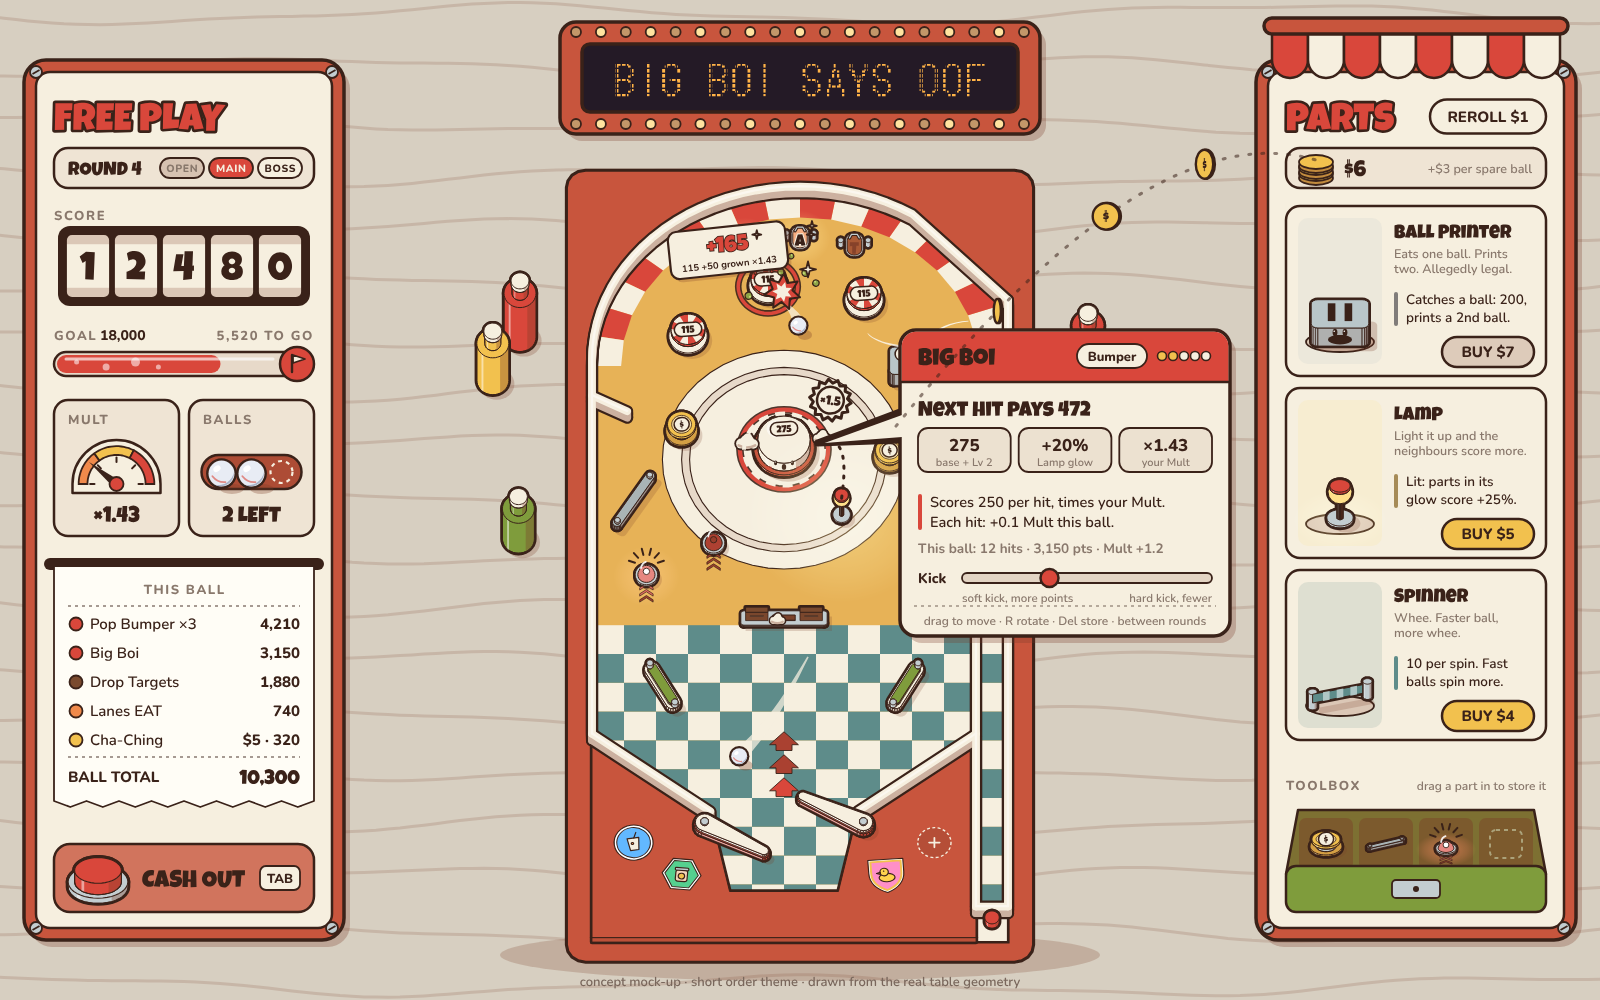
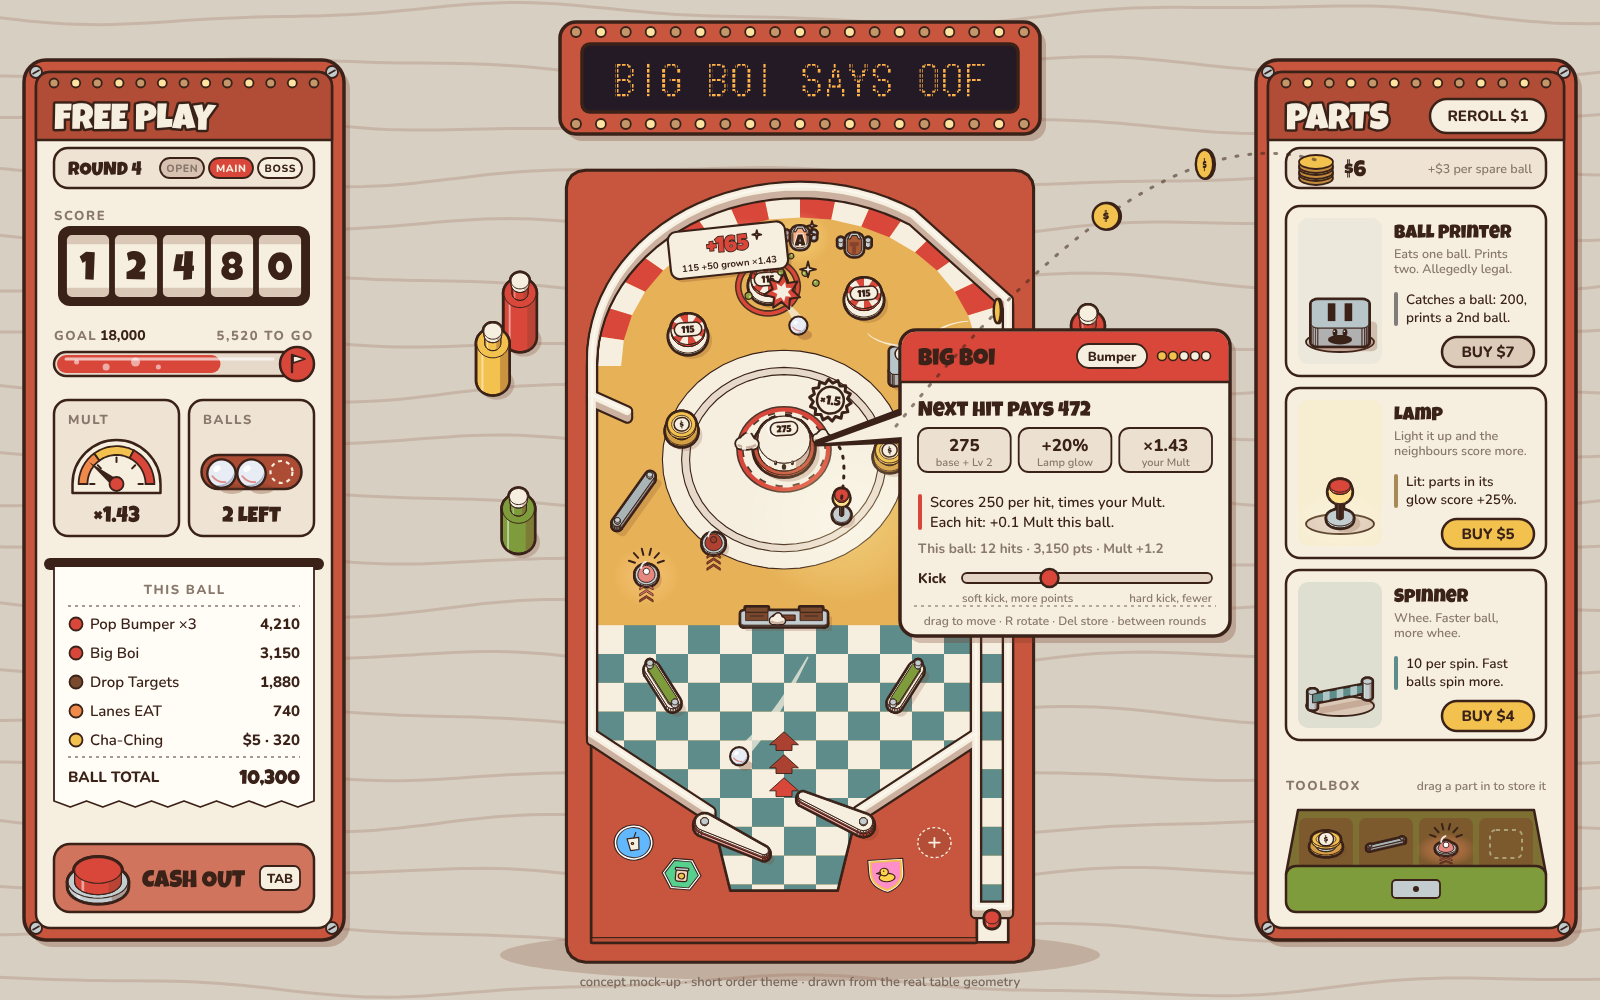
Marquee panel headers and the art implementation plan
Both HUD panels open with an arcade marquee header (chasing bulbs, title)
inside the frame, replacing the shop canopy that stuck out and wasted
space. Adds docs/art-implementation-plan.md (phases A-H with done-when
checks) and records the art direction, player-chosen themes and fonts in
the game plan.

Claude-Session: https://claude.ai/code/session_01Si7qTfgq9ucPtbt7aWJn71

Changed region(s): [[0.7812, 0.0, 1.0, 0.155], [0.0, 0.062, 0.2188, 0.155]]

diff --git a/tools/concept/ui.ts b/tools/concept/ui.ts
@@ -148,14 +148,20 @@ export function arcadeButton(t: Theme, x: number, y: number, w: number, label: s
     `<rect x="${f(x + w - kw - 14)}" y="${f(cy - 12)}" width="${kw}" height="24" rx="6" fill="${t.paper}" stroke="${t.ink}" stroke-width="${LW.detail}"/>` + text(t, x + w - 14 - kw / 2, cy, key, 13, { w: 800, anchor: 'middle', mid: true });
 }
 
-/** A shop canopy: scalloped stripes hanging from a rail. */
-export function awning(t: Theme, x: number, y: number, w: number, n = 8) {
-  const sw = w / n, o: string[] = [];
+/**
+ * A panel header in the arcade style of the DMD marquee: a darker band across the top of the housing
+ * with a row of chasing bulbs and the title, so nothing sticks out of the frame.
+ */
+export function marqueeHeader(t: Theme, x: number, y: number, w: number, title: string) {
+  const x0 = x + 12, x1 = x + w - 12, y0 = y + 12, y1 = y + 80, r = 14, band = mix(t.rim, t.shadeTint, 0.3);
+  const o: string[] = [`<path d="M${f(x0)} ${f(y1)}V${f(y0 + r)}A${r} ${r} 0 0 1 ${f(x0 + r)} ${f(y0)}H${f(x1 - r)}A${r} ${r} 0 0 1 ${f(x1)} ${f(y0 + r)}V${f(y1)}Z" fill="${band}" stroke="${t.ink}" stroke-width="${LW.widget}" stroke-linejoin="round"/>`];
+  const n = 13;
   for (let i = 0; i < n; i++) {
-    const X = x + i * sw, c = i % 2 ? t.paper : t.accent;
-    o.push(`<path d="M${f(X)} ${f(y)}H${f(X + sw)}V${f(y + 34)}A${f(sw / 2)} ${f(sw / 2)} 0 0 1 ${f(X)} ${f(y + 34)}Z" fill="${c}" stroke="${t.ink}" stroke-width="${LW.widget}" stroke-linejoin="round"/>`);
+    const bx = x0 + 18 + (i * (x1 - x0 - 36)) / (n - 1);
+    o.push(`<circle cx="${f(bx)}" cy="${f(y0 + 11)}" r="4.5" fill="${i % 2 ? t.glow : mix(t.glow, t.shadeTint, 0.45)}" stroke="${t.ink}" stroke-width="${LW.detail}"/>`);
   }
-  return o.join('') + `<rect x="${f(x - 8)}" y="${f(y - 8)}" width="${f(w + 16)}" height="16" rx="8" fill="${t.rim}" stroke="${t.ink}" stroke-width="${LW.frame}"/>`;
+  o.push(text(t, x + 30, y + 56, title, 36, { w: 700, fill: t.paper, stroke: t.ink, mid: true }));
+  return o.join('');
 }
 
 /** A pill button: icon slot on the left, label centred on the cap line. */

diff --git a/tools/concept/scenes.ts b/tools/concept/scenes.ts
@@ -12,7 +12,7 @@ import {
 import { ball, drawPart, flipper, glowDisk, type PartState } from './props';
 import { CASTLE, DINER, FACTORY, mat, mix, roleClashes, THEMES, type Theme } from './themes';
 import {
-  arcadeButton, awning, ballTray, card, coinStack, decal, DECALS, emptySlot, faint, fitIcon, goalTube, housing, label, LW, multDial, odometer, offerCard, pill, receipt, text, tile, toolbox, tooltip,
+  arcadeButton, ballTray, card, coinStack, decal, DECALS, emptySlot, faint, fitIcon, goalTube, housing, label, LW, marqueeHeader, multDial, odometer, offerCard, pill, receipt, text, tile, toolbox, tooltip,
 } from './ui';
 
 const OUT = process.argv[2] || 'docs/concept';
@@ -335,7 +335,7 @@ const PW = 320, M = 30, CW = PW - 2 * M;
 
 function hudLeft(t: Theme, x: number, y: number) {
   const o: string[] = [housing(t, x, y, PW, 880)], L = x + M, R = x + PW - M;
-  o.push(text(t, L, y + 70, 'FREE PLAY', 38, { w: 700, fill: t.accent, stroke: t.ink }));
+  o.push(marqueeHeader(t, x, y, PW, 'FREE PLAY'));
   // round and stage: Opener · Main · Boss, the current one lit
   o.push(tile(t, L, y + 88, CW, 40));
   o.push(text(t, L + 14, y + 108, 'ROUND 4', 19, { w: 700, mid: true }));
@@ -365,9 +365,8 @@ function hudLeft(t: Theme, x: number, y: number) {
 
 function hudRight(t: Theme, x: number, y: number) {
   const o: string[] = [housing(t, x, y, PW, 880)], L = x + M, R = x + PW - M;
-  o.push(awning(t, x + 16, y - 34, PW - 32, 8)); // the shop canopy hangs over the housing
-  o.push(text(t, L, y + 70, 'PARTS', 38, { w: 700, fill: t.accent, stroke: t.ink }));
-  o.push(pill(t, R - 116, y + 70 - (0.71 * 38) / 2, 116, 'REROLL  $1', t.paper));
+  o.push(marqueeHeader(t, x, y, PW, 'PARTS'));
+  o.push(pill(t, R - 116, y + 56, 116, 'REROLL  $1', t.paper));
   o.push(tile(t, L, y + 88, CW, 40));
   // money lives with the shop; the coin stack comes first so flying coins land on it without crossing text
   o.push(coinStack(t, L + 30, y + 108, 3) + text(t, L + 58, y + 108, '$6', 22, { w: 700, mid: true }));

diff --git a/docs/art-implementation-plan.md b/docs/art-implementation-plan.md
@@ -1,0 +1,82 @@
+# Art implementation plan (Toybox Diorama)
+
+Status: **design approved, not implemented.** This is the build plan for the look in [art-direction.md](art-direction.md) (v0.3). The concept sheets in [concept/](concept/) are the target, and `tools/concept/` is working reference code: the projection, the prop drawers, the theme kits, the UI widgets and the particle shapes are already written there, against the real table and part data.
+
+## Ground rules
+
+- **The sim never changes for art.** Everything here is presentation: it reads the sim and the event stream and never writes back (as `src/render/renderer.ts` does today). The machine tilt and the nudge shove are visual only.
+- **Themes are data and a player choice.** No default machine; the player picks a theme, and a theme changes looks only.
+- **One source per fact.** Part recipes keep driving the scorer, the descriptions, the tooltips and the labels on the board. Theme tokens drive every colour. Nothing in `src/render` hard-codes a colour.
+- **Port, don't redesign.** Each step below has a concept file to port from; matching the concept sheets is the acceptance test.
+
+## Phases
+
+Each phase ends with the game still playable and the tests green.
+
+### A. Theme kit in `src` (about a day)
+- Move `tools/concept/themes.ts` into `src/render/theme.ts`: the three theme rows, `mat()`, `mix()`, `legible()`, `roleClashes()`.
+- Replace the hard-coded colours in `renderer.ts`, `style.css` and `src/ui/html.ts` with theme tokens (CSS custom properties for the HTML side).
+- A **theme picker** in the options (and later in the run setup), saved in `localStorage`.
+- **Done when:** switching theme recolours the table and the panels live; a vitest test runs `roleClashes()` on every theme and fails on a clash.
+
+### B. Projection, machine tilt, rails (1–2 days)
+- One projection function `P(x, y, z)` in the renderer (`tools/concept/draw.ts` has it) and its inverse on the floor plane for pointer picking, so placing and dragging keep working.
+- Animate `k` from 1.0 in the workshop to 0.86 in play over ~0.4 s, and back.
+- **Nudge** as a damped spring on the machine container's offset and lean; **tilt warning** rattle; **TILT** tips to `k` 0.8, turns all lamps and inserts off and dims the field.
+- Walls as continuous stacked-stroke rails (`rails()` in `scenes.ts`).
+- **Done when:** the four states of the tilt sheet can be seen in the game, and placing a part lands exactly where the pointer is in both the flat and the tipped state.
+
+### C. Props as cached textures (several days)
+- Port the prop drawers (`props.ts`, the `Prop` class in `draw.ts`) from SVG strings to Pixi `Graphics` (the calls map nearly one to one).
+- Bake each part × state (idle, lit, hit, down) × theme once with `renderer.generateTexture` and show sprites; rotatable parts are baked in 5° buckets on first use, or drawn live if cheap. Today the renderer clears and redraws everything every frame.
+- Live-value tags, level pips, the Lane Rollover letters (the theme's `laneWord`) and the Level Light dome tinted by its target.
+- Use Pixi's real bounds (`getLocalBounds`) for the fit-and-centre rule of `fitIcon()`.
+- **Done when:** every part matches the parts sheet in all three themes, and a full table with multiball holds 60 fps on a mid laptop.
+
+### D. Floor art, surroundings, backdrop, apron (1–2 days)
+- Floor patterns (plates and gear, checker and plate, meadow and path), inserts, the apron with its decal slots, and the surround props (tanks with the piped valve, condiment bottles, pine trees), rendered once per layout into a texture.
+- The drifting backdrop as a `TilingSprite` scrolled by phase (squiggles, waves, curls), 10–12 s loop, frozen in Calm mode and on TILT.
+- **Done when:** the three screen mock-ups match with the HUD hidden.
+
+### E. Particles (a few days)
+- Bake the particle shapes per theme into one atlas (impact star frames, debris, puff, coin flip frames, sparkle, stamp) and run them in a `ParticleContainer`.
+- The scale curve `0.45 → 1.18 → 1.0 → 0.68 → 0`, shape frames on a 1/12 s step, positions every frame; no fading except air (smoke, trails, glow).
+- **Causal targets:** coins fly to the money stack, Mult stamps to the Mult dial. The panel positions come from the DOM (see F), mapped into canvas space.
+- Budgets: ~150 live particles, 16 stickers; Calm mode halves counts and drops shake, twinkles and bulb chases.
+- **Done when:** the particle sheet's timings are visible in play and the budget holds in a busy multiball.
+
+### F. HUD reskin and tooltips (a few days)
+- Keep the panels in **HTML/CSS** (crisp text, easy layout) with a transparent Pixi overlay above them for effects that fly between the table and the panels.
+- Build from `tools/concept/ui.ts`: housings with marquee headers, the round strip, odometer drums, the goal tube with its badge, the Mult dial, the ball tray, the receipt ledger, the Cash Out button, the money row, offer cards with Buy buttons, and the toolbox. The small 3D bits (buttons, parts on plinths, toolbox items) are the baked prop textures from C, shown as images.
+- **Tooltips** with the fixed anatomy (header, the next-hit number, math chips including cross-part effects, recipe, this ball, the dial, controls), generated from recipe data; the dotted link to a boosting part is drawn on the table.
+- **Fonts:** bundle Luckiest Guy, Nunito and DotGothic16 locally (all SIL OFL); apply the "bold and 19 px or more uses the display face" rule in CSS classes.
+- Polish rules from art-direction §7 as CSS: the 30 px grid, three line weights, fixed-width numbers, only stuck-on things tilted.
+- **Done when:** the screen mock-ups match with live data, and every scoring number on screen can be explained by its tooltip.
+
+### G. Relic decals (needs the major-upgrade flow from M1.5)
+- Decal data rows (name, shape, rarity, rule), four apron slots, the Rules column of a major upgrade (pick one of three), peel to remove between rounds, decal tooltips.
+- The six on the relic sheet are placeholders; real decals come with the rebalance.
+- **Done when:** a run can earn, stick, read and peel decals, and the rules apply in the scorer.
+
+### H. Tooling and tests (alongside the phases)
+- `roleClashes()` as a unit test (A).
+- A **prop lab** dev page: every part in every theme and state with a footprint overlay (the parts sheet, live).
+- **Visual snapshots** in the browser smoke test (`tools/smoke.cjs`) for the workshop and a frozen play frame per theme.
+- Keep `npm run concept` working as the design reference until the game matches it; retire it afterwards or keep it for key art.
+
+### Later: bigger and more parts
+When ramps, upper playfields and big toys arrive, follow art-direction §11: prop specs as data built from primitives, size classes (S, M, L, XL) with theme-specific hero art only for L, cutaway on demand when a ball is behind a tall part, and render layers per playfield level.
+
+## Order and fit with the roadmap
+
+A → B → C → D → E → F, with H alongside and G after the major-upgrade flow exists. A is cheap and can land any time (even before M1.5); B to F are the "art direction" part of **M3**; G belongs to the M1.5/M2 major-upgrade work.
+
+## Risks
+
+| Risk | Mitigation |
+|---|---|
+| Baked textures use too much memory with many themes and states | Bake lazily per theme in use; drop other themes' textures on switch |
+| The tipped view makes aiming feel off | Build in the flat view; tip only while the ball is live; tune `k` in playtests (0.86 is a starting value) |
+| Effects flying between canvas and HTML panels drift out of place | One mapping function from DOM rects to canvas space, recomputed on resize; a smoke-test check |
+| Text in Luckiest Guy gets used for sentences | The CSS class rule (display only for bold text of 19 px and up) and a review checklist |
+| A new theme's colours clash | `roleClashes()` in the tests blocks it |

diff --git a/docs/game-plan.md b/docs/game-plan.md
@@ -2,7 +2,7 @@
 
 Status: **M0 done; M1 (the machine workshop) mostly built and playable:** a bigger table with a varied launch, twelve part types, per-run part levels, a shop, an inventory, a test lab, undo/redo, layout slots, a heatmap, and scoring you can read. Next: the streamlined between-rounds flow with major upgrades, then a rebalance.
 
-Docs: research [genre-research.md](genre-research.md) · measured results [m0-physics-findings.md](m0-physics-findings.md) · creative parts and real-machine mechanisms [parts-catalog.md](parts-catalog.md) · run flow, upgrades, rebalancing and board variety [run-flow-and-balance.md](run-flow-and-balance.md) · look, themed machines and particles [art-direction.md](art-direction.md). All numbers are starting values to be tuned by simulation and playtests, not commitments.
+Docs: research [genre-research.md](genre-research.md) · measured results [m0-physics-findings.md](m0-physics-findings.md) · creative parts and real-machine mechanisms [parts-catalog.md](parts-catalog.md) · run flow, upgrades, rebalancing and board variety [run-flow-and-balance.md](run-flow-and-balance.md) · look, themed machines and particles [art-direction.md](art-direction.md) · how to build the look [art-implementation-plan.md](art-implementation-plan.md). All numbers are starting values to be tuned by simulation and playtests, not commitments.
 
 ## 0. Decisions so far
 
@@ -23,6 +23,9 @@ Docs: research [genre-research.md](genre-research.md) · measured results [m0-ph
 | **Testing** | A proper test environment: every part, no money limit (built as the Test Lab, §2.3) |
 | **Creative parts** | Many, later, drawing on real machines: lights that upgrade bumpers, moving and changing parts, toys. Research is in parts-catalog.md |
 | **Board** | Improvements and randomness at the start of a run (plan: run-flow-and-balance.md §5) |
+| **Art direction** | **Toybox Diorama** (art-direction.md v0.3, approved): sticker props, theme kits as data, sticker particles, object-style HUD, relic decals on the apron, the machine tilts rather than the camera. Build plan: art-implementation-plan.md |
+| Themes | A player choice, no default machine: Funhouse Factory, Short Order, Castle Crash to start. Looks only |
+| Type | Luckiest Guy (display), Nunito (UI), DotGothic16 (DMD), all SIL OFL |
 | Old Dice It! plan | Deleted (still in git history at `eb84abf`) |
 
 ## 1. Vision and the one rule
@@ -153,7 +156,7 @@ Data: parts + recipes + dials · callouts · Tools: balance bot, stress/fuzz, la
 | **M1** | **Machine Workshop.** Built: bigger table and varied launch, 12 parts, dials, recipes and live values, shop, inventory, sell/store/place, multiball, extra flippers, lamps, lane sets, **part levels and Level Lights, drop-target bank, Test Lab, undo/redo, layout slots, heatmap**. **Still to do:** the end-of-ball Bonus tally, and (moved to the next step) the between-rounds flow with major upgrades | **Mostly done** |
 | **M1.5** | **Streamlined flow and rebalance.** Between-rounds stepper, major upgrades (pick 1 of 3), cabinet pick and seeded board, the cheap pinball parts (lane change, kickback, ball saver, vari-target), the auto-builder and balance table, a real goal curve | **Next** |
 | M2 | Machine depth: **creative parts wave 2** (timed magnet, teleporter pair, moving parts: roving bumper, spinning disc, swinging gate; Fuse Lane, rank ring), wiring spike, Lab (bot estimate of a layout), ~25 parts, the **Rules** column of the upgrades (~25 relics), bosses, missions, balance bot sets the goal curve, difficulty tiers | After M1.5 |
-| M3 | Spectacle (supports the machine): art direction, Chaos meter, shaders, DMD, light shows, adaptive audio, announcer, accessibility. **Creative parts wave 3, part 1:** layers (ramps, orbits), then the upper playfield | |
+| M3 | Spectacle (supports the machine): **art direction per [art-implementation-plan.md](art-implementation-plan.md)** (theme kit, tilt, prop textures, particles, HUD reskin), Chaos meter, shaders, DMD, light shows, adaptive audio, announcer, accessibility. **Creative parts wave 3, part 1:** layers (ramps, orbits), then the upper playfield | |
 | M4 | Content and meta: ~40 parts, ~40 rules, **legendary toys** (the Hand, the Castle, the Head), themed cabinets, collection log, unlocks, tutorial, Steam wrapper | |
 | M5 | Playtest and launch | |
 

diff --git a/docs/art-direction.md b/docs/art-direction.md
@@ -7,7 +7,7 @@ What the five style references have in common, how that becomes a look for a pin
 | ![](concept/before-neon.png) | ![](concept/screen-factory.png) |
 | Today: neon placeholder | Concept: *Funhouse Factory* theme, same table, same build |
 
-v0.3 is the art-director polish pass: one layout grid for both panels, three line weights, text centred on measured cap heights, parts centred in their boxes by their drawn bounds, money moved to the shop side, Buy buttons, a real pipe in the factory surround, and an automated colour check that fixed six clashing part colours (rules in §7). Themes are a player choice; there is no default.
+v0.3 is the art-director polish pass: one layout grid for both panels with matching marquee headers, three line weights, text centred on measured cap heights, parts centred in their boxes by their drawn bounds, money moved to the shop side, Buy buttons, no canopy sticking out of the frame, a real pipe in the factory surround, and an automated colour check that fixed six clashing part colours (rules in §7). Themes are a player choice; there is no default.
 
 v0.2 changes from feedback: the HUD panels became objects (a scoreboard machine, a parts counter); a hover tooltip; apron stickers became **relic decals**; livelier Lane Rollover and Level Light; the **goofy type pairing** (Luckiest Guy + Nunito + DotGothic16); slowly drifting backdrops instead of dots; **the machine tilts, not the camera**; a plan for bigger and more parts (§11).
 
@@ -128,6 +128,8 @@ The left and right panels were flat cards: clear, but boring. They are now objec
 
 Both panels are the same width (320 px) on the same grid, so the table sits dead centre; their titles share a baseline, their first tiles share a row, and their last elements end on the same line.
 
+**Both panels open with a marquee header** in the style of the DMD sign: a darker band inside the top of the housing with a row of chasing bulbs and the title (FREE PLAY, PARTS). It replaced a shop canopy that stuck out above the frame and wasted space.
+
 **Left: the scoreboard** (a housing with screws, paper inside)
 - **Round strip:** "ROUND 4" and three stage pills (Open, Main, Boss), the current one lit. No tilted sticker.
 - **Score on odometer drums:** fixed-width digits that roll as points tick, so the number never wobbles. A still frame shows them at rest.
@@ -136,13 +138,13 @@ Both panels are the same width (320 px) on the same grid, so the table sits dead
 - **The ledger as a receipt** printed out of a slot, with dotted leaders and a ball total.
 - **Cash Out:** a big arcade button with its key (TAB).
 
-**Right: the parts counter** (the same housing, a striped canopy hanging over its top edge)
-- **Title row:** "PARTS" on the same baseline as "FREE PLAY", with a Reroll pill.
+**Right: the parts counter** (the same housing and the same marquee header)
+- **Header:** "PARTS" on the same baseline as "FREE PLAY", with the Reroll pill in the band.
 - **Money lives here,** with the shop: a coin stack, the balance, and "+$3 per spare ball". Coins from the table fly onto the stack, which sits first in the row so they never cross text.
 - **Offer cards:** the part standing on a plinth (centred by its drawn bounds and resting on the plinth), the name, the flavour line, the recipe with a bar in the part's colour, and a **Buy button** that greys out when you can't afford it.
 - **Toolbox:** stored parts sit centred in compartments, an empty compartment shows a dashed outline, and the hint says "drag a part in to store it".
 
-**Rules that keep it clear:** information never hides behind decoration (labels in the UI face, values in the display face, one idea per widget); every widget animates only when its value changes; one hot accent per panel (the Cash Out button, the canopy).
+**Rules that keep it clear:** information never hides behind decoration (labels in the UI face, values in the display face, one idea per widget); every widget animates only when its value changes; one hot accent per panel (the Cash Out button, the Buy buttons).
 
 ### Tooltips: what it is, what it pays now, why, how to change it
 

diff --git a/README.md b/README.md
@@ -8,6 +8,7 @@ A rogue-lite where you **build, tune and rebuild a pinball machine** to hit a sc
 - Creative parts from real machines (with sources): [docs/parts-catalog.md](docs/parts-catalog.md)
 - Run flow, major upgrades, rebalancing, board variety: [docs/run-flow-and-balance.md](docs/run-flow-and-balance.md)
 - Art direction, themed machines, particles, with concept sheets: [docs/art-direction.md](docs/art-direction.md)
+- How to build that look, phase by phase: [docs/art-implementation-plan.md](docs/art-implementation-plan.md)
 
 ## Run it
 
